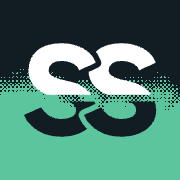
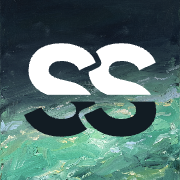
Replace the seam mark with the woven ss on painted water (A1)
- From 96 px up the ss sits on painted clear water with a soft rio-negro tint
  fading down from the top; at 48 px and below it is a flat rio-negro and
  igarapé split. New favicon.ico (16/32/48), favicon-32, apple-touch-icon and
  the manifest icons, exported from the Paper board "Icon exports".
- brand/rules.md "The mark" rewritten; playbook progress updated.

diff --git a/brand/rules.md b/brand/rules.md
@@ -92,14 +92,15 @@ The waterline channel stays in every colourway, one-colour included.
 
 ### The mark
 
-**The woven ss on the seam** (decided by Breno, 2026-11-20). **Under review (2026-11-21):** with the seam retired from every surface, the mark is the last place the dither appears. Options on the Paper board "Logo · the mark without the dither" (Brand · Core identity): painted clear water, painted meeting, a flat split, and painted from 96 px up with the flat split below. Until one is picked, the files below stay as they are. Boards: Paper page "Brand · Core identity", "Logo · the mark, A + C" and "Icon exports".
+**The woven ss on painted water** (Breno, 2026-11-21, option A1). It replaced the woven ss on the dithered seam (2026-11-20) when the seam was retired. Boards: Paper page "Brand · Core identity", "Logo · the mark without the dither" (the options) and "Icon exports" (the files; the seam version is kept beside it as "Icon exports (seam, retired 2026-11-21)").
 
 - The ss is taken out of the wordmark at the same spacing (336 units), with the same weave and waterline. Nothing is redrawn.
-- It sits on a square of the seam texture (`hseam.png`), positioned so the dither meets the solid igarapé exactly at the waterline: the top of the ss is white on the dark water and the dither, the bottom is rio-negro on the light water.
-- It is used **only in this seam version**, at every size, favicon included. There is no flat or single-colour mark.
+- **From 96 px up** (app icon, apple-touch icon, manifest icons, social avatar): it sits on painted clear water, portrait (`src/assets/imagery/clear-water-portrait.png`), cropped so the dark water is above the waterline and the igarapé below. A rio-negro tint fades down from the top (60% at the top, gone by 72% of the height) so the white top of the ss holds; there is no hard edge to the tint.
+- **At 48 px and below** (favicons): a flat split, rio-negro above and igarapé below, cut straight at the waterline (54.6% of the height). Brushwork can't show at these sizes, and the flat split stays sharp at 16 px.
+- The top half of the ss is white, the bottom rio-negro, at every size. There is no single-colour mark.
 - Files in `public/`: `favicon.ico` (16, 32 and 48 px), `favicon-32.png`, `apple-touch-icon.png` (180 px), `icon-192.png` and `icon-512.png` for the web manifest (`src/pages/site.webmanifest.ts`). App icons are square; the operating system rounds the corners. The favicon tile has a 22% corner radius.
 - Use it for the favicon, app icon and social avatar, and anywhere under the wordmark's 96 px minimum. Never next to the wordmark: the word already contains it.
-- Because the seam is a pixel texture, the mark is always a rendered image, exported from the Paper board, never rebuilt as vector.
+- The mark is always a rendered image, exported from the Paper board "Icon exports", never rebuilt as vector. `favicon.ico` packs the 16, 32 and 48 px exports as PNG entries.
 
 ---
 
@@ -260,5 +261,6 @@ Decided by Breno, 2026-11-21 (Paper: "5 · Seam review" on Brand · Graphic lang
 - Don't bring the dither back as a background, band, strip or texture. The meeting of two waters is the river (in motion) or the painted meeting (in stills).
 - The painting component is `src/components/ui/Painting.astro`; the files and their prompts are in `src/assets/imagery/`. A painting crop always sits inside a frame (radius `--radius-l`, or `--radius-m` inside a card) or bleeds off the section edge; never as a small floating rectangle.
 - At most one painted meeting (D) per page.
+- The mark moved off the seam on the same day ("The mark" above).
 - Still to move: the customer story covers (`src/assets/textures/stories/`) and the other four blog-cover patterns use halftone and dither. They get their own pass; photography is the imagery for stories and editorial.
 - The seam engine, `SeamCanvas` and the seam PNGs were deleted from the site. Their scripts stay in `docs/design/texture-lab/` as history.

diff --git a/docs/brand-building-playbook.md b/docs/brand-building-playbook.md
@@ -290,7 +290,7 @@ Pick one territory. If the current one wins, this step costs a day and gives you
 
 **Output:** a "Graphic language" section in `brand/rules.md`.
 
-**Progress (2026-11-21):** image treatments drafted and written up in `brand/rules.md` ("Graphic language: imagery"). Five kinds of imagery with a job each: the river, painted clear water, painted meeting, photography, mist. Product UI only over paintings or the river. Four type-on-image approaches kept, chosen by format: quiet zone, copy outside the image, soft scrim, frosted plate (not on paintings). Boards on the Paper page "Brand · Graphic language". The river now also renders as stills (`scripts/build-river-stills.ts`). App window v3 polished in Paper and brought to the site (tags trimmed to cap height). **Seam retired (2026-11-21):** after a review of its 13 surfaces (Paper "5 · Seam review"), every seam band on the site moved to a painting, the river or photography, and the seam engine was deleted; rules in `brand/rules.md` ("The seam is retired"). The mark is the last place the dither appears; options without it are on the Paper board "Logo · the mark without the dither", waiting for Breno's pick. Still to do: the mark, product UI crops and grid, the chart rule, icons, and the story and blog covers still on halftone and dither.
+**Progress (2026-11-21):** image treatments drafted and written up in `brand/rules.md` ("Graphic language: imagery"). Five kinds of imagery with a job each: the river, painted clear water, painted meeting, photography, mist. Product UI only over paintings or the river. Four type-on-image approaches kept, chosen by format: quiet zone, copy outside the image, soft scrim, frosted plate (not on paintings). Boards on the Paper page "Brand · Graphic language". The river now also renders as stills (`scripts/build-river-stills.ts`). App window v3 polished in Paper and brought to the site (tags trimmed to cap height). **Seam retired (2026-11-21):** after a review of its 13 surfaces (Paper "5 · Seam review"), every seam band on the site moved to a painting, the river or photography, and the seam engine was deleted; rules in `brand/rules.md` ("The seam is retired"). The mark followed: Breno picked A1 from the Paper board "Logo · the mark without the dither" (the ss on painted clear water with a soft tint above, a flat split at 48 px and below); new icons in `public/`. Still to do: product UI crops and grid, the chart rule, icons, and the story and blog covers still on halftone and dither.
 
 ### 9. Direct the photography
 

diff --git a/src/assets/textures/README.md b/src/assets/textures/README.md
@@ -2,7 +2,7 @@
 
 Pattern stills from the Paper design. They are design assets, not generator output, so they live here and not in `src/assets/generated/`.
 
-The dithered seam textures (`seam-40`, `seam-50`, `seam-cta`, `hseam`, `mobile-seam-v2`, `strip-tap-noite`) and the seam shader were retired on 2026-11-21 (playbook step 8): the paintings in `src/assets/imagery/` and the river replaced them. The scripts that made them are still in `docs/design/texture-lab/`, and the logo mark keeps its own exported seam square until the mark is redrawn.
+The dithered seam textures (`seam-40`, `seam-50`, `seam-cta`, `hseam`, `mobile-seam-v2`, `strip-tap-noite`) and the seam shader were retired on 2026-11-21 (playbook step 8): the paintings in `src/assets/imagery/` and the river replaced them. The scripts that made them are still in `docs/design/texture-lab/`.
 
 ## Blog covers (`covers/`)
 
